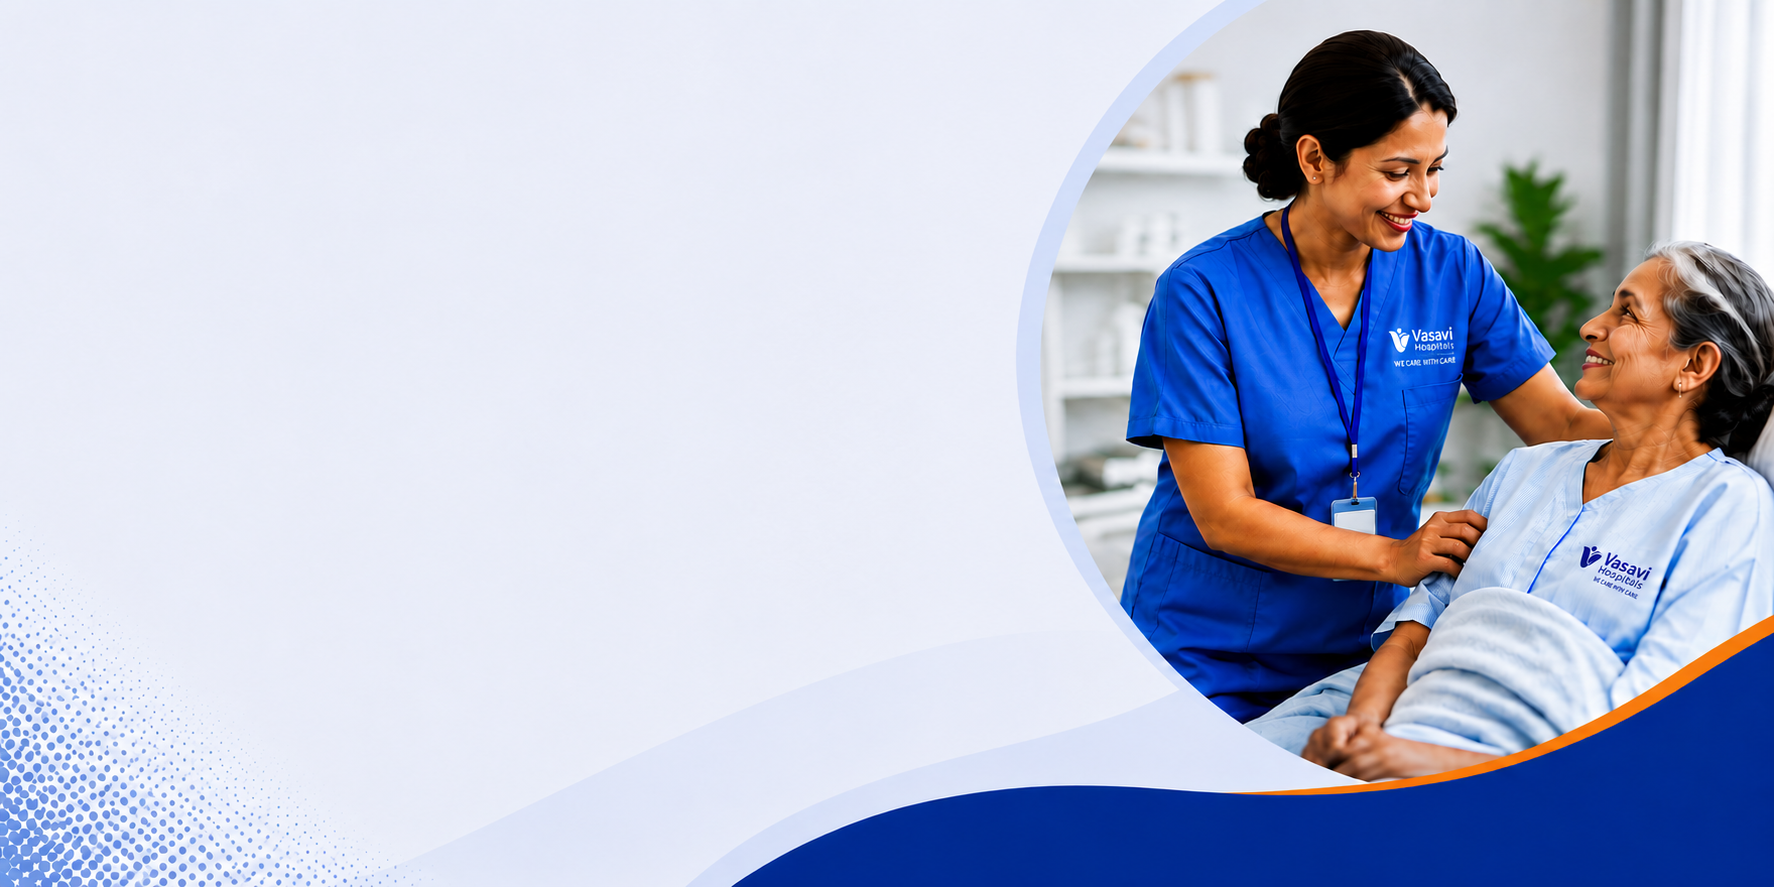
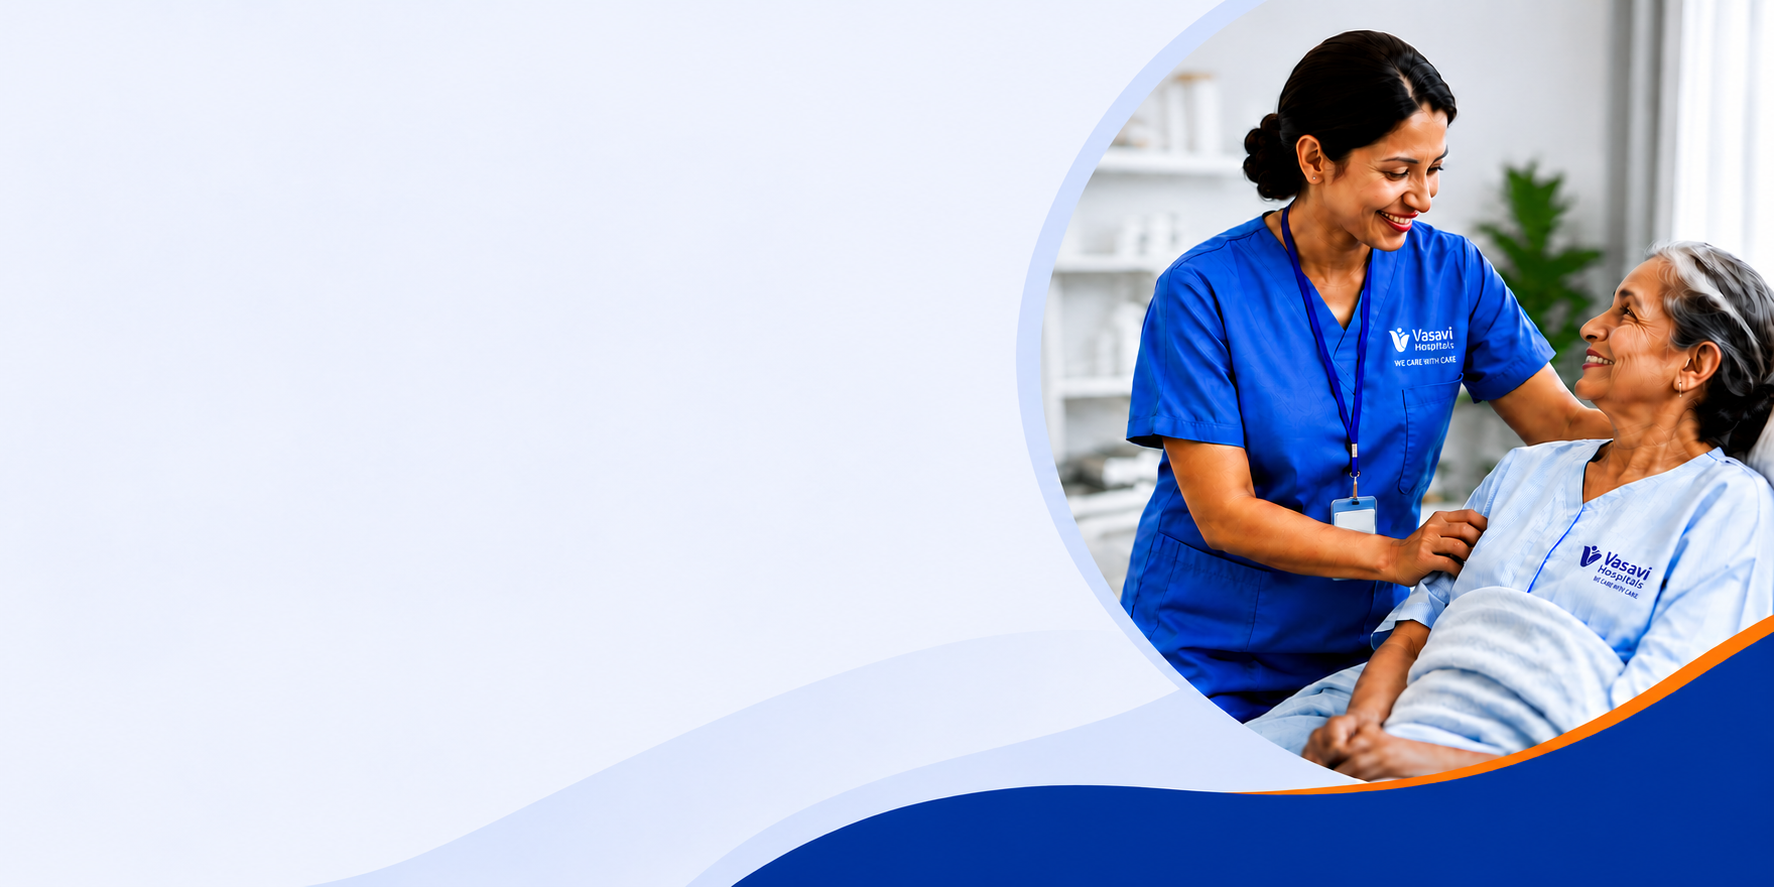
changes have been made

diff --git a/src/app/pages/home-page/home-page.css b/src/app/pages/home-page/home-page.css
@@ -1902,6 +1902,9 @@
     padding: 42px 58px 28px;
     background: url("/Images/Home-new/opinion-section-bg-image.png") lightgray -22.436px -18.183px / 101.983% 104.457% no-repeat;
     background-repeat: no-repeat;
+    /* Anchors the decorative heart icon below, which is positioned
+       relative to this section instead of sitting in the flex flow. */
+    position: relative;
 }
 
 
@@ -2015,10 +2018,23 @@
 }
 
 .opinion-section img {
+    /* This decorative icon floats beside the "WE'RE HERE FOR YOU" heading,
+       it isn't meant to take up its own row above it. It used to be
+       `position: relative` with a big top/right offset, which visually
+       moved it down next to the heading but - since relative positioning
+       never removes an element from normal flow - still reserved its
+       original 120x120 box (plus the flex gap after it) as empty space at
+       the very top of the section, which is what was showing up as the
+       oversized empty band above "A Second Opinion." Absolute positioning
+       takes it out of flow entirely, so the section shrinks to fit its
+       real content while the icon keeps the same on-screen spot next to
+       the heading (values below are the equivalent on-screen position,
+       recentered off the section itself instead of off the icon's old
+       flow position). */
     display: block;
-    position: relative;
-    top: 185px;
-    right: 475px;
+    position: absolute;
+    top: 87px;
+    left: calc(50% - 535px);
 }
 
 .heart-outline {

diff --git a/src/app/ads-pages/callback-form/callback-form.ts b/src/app/ads-pages/callback-form/callback-form.ts
@@ -72,7 +72,7 @@ export class CallbackForm {
   // }
 
   ngOnInit(): void {
-    // this.fetchUserLocation();
+    this.fetchUserLocation();
     // console.log('CallbackForm initialized for page:', this.pageName);
   }
 
